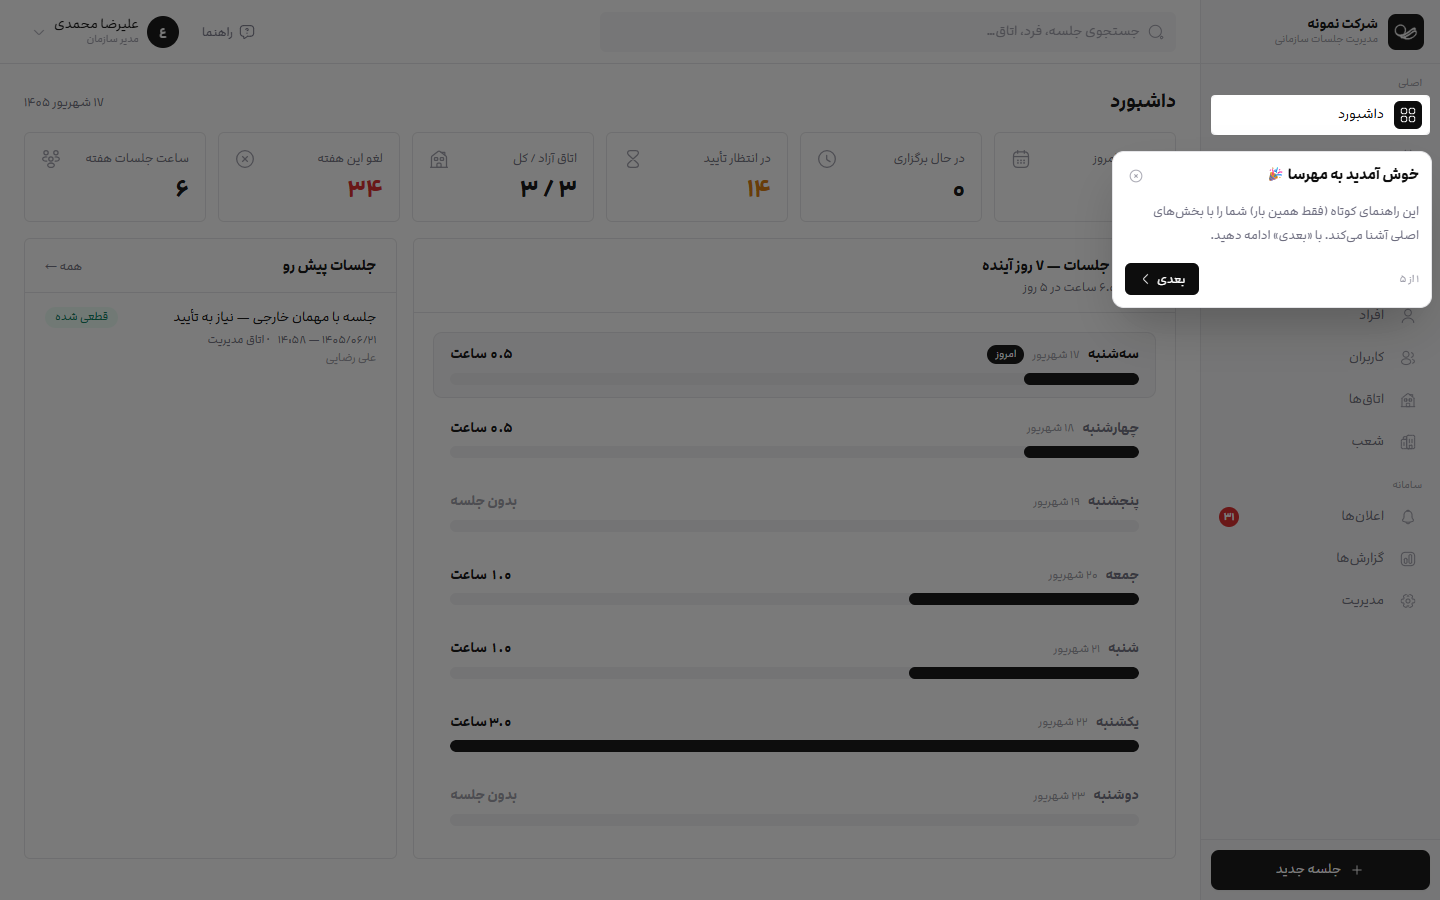
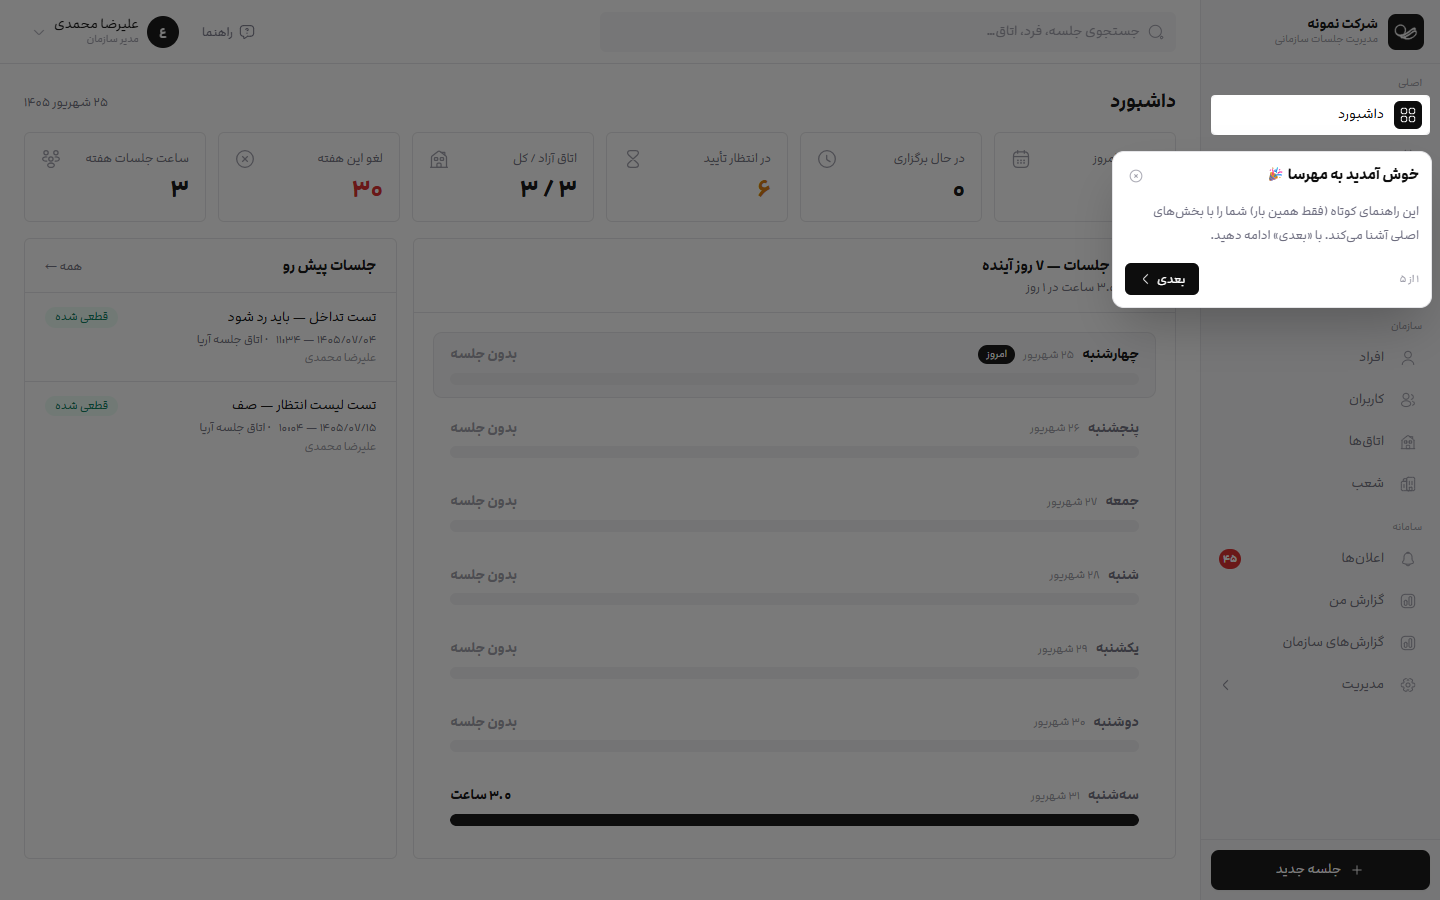
test(integration): lifecycle creators → operator (employees now file requests)
The meeting-request model removed meeting:create from EMPLOYEE; the
lifecycle suite still created/mutated meetings as ali. Swapped the 8
create/mutate calls to operatorCookie — semantics unchanged (guest
approval 403-for-employee check intact). Lifecycle 8/8.

زمان: 2026-09-16 11:04

diff --git a/tests/integration/api.test.ts b/tests/integration/api.test.ts
@@ -175,10 +175,10 @@ describe("meeting lifecycle", () => {
   const branchId = "branch-niavaran";
   const roomId = "room-a";
 
-  it("employee creates internal meeting → auto-confirmed", async () => {
+  it("operator creates internal meeting → auto-confirmed (employees now file requests)", async () => {
     const { status, body } = await api("/api/meetings", {
       method: "POST",
-      cookie: employeeCookie,
+      cookie: operatorCookie,
       json: {
         title: "تست یکپارچه — جلسه داخلی",
         branchId,
@@ -214,7 +214,7 @@ describe("meeting lifecycle", () => {
   it("guest meeting requires approval → operator approves", async () => {
     const created = await api("/api/meetings", {
       method: "POST",
-      cookie: employeeCookie,
+      cookie: operatorCookie,
       json: {
         title: "جلسه با مهمان خارجی — نیاز به تأیید",
         branchId,
@@ -246,7 +246,7 @@ describe("meeting lifecycle", () => {
   it("reschedule changes time with history event", async () => {
     const { status, body } = await api(`/api/meetings/${meetingId}/reschedule`, {
       method: "POST",
-      cookie: employeeCookie,
+      cookie: operatorCookie,
       json: { startAt: tehran(10, 12), endAt: tehran(10, 13), reason: "تست" },
     });
     expect(status).toBe(200);
@@ -260,7 +260,7 @@ describe("meeting lifecycle", () => {
   it("change room checks availability", async () => {
     const { status } = await api(`/api/meetings/${meetingId}/change-room`, {
       method: "POST",
-      cookie: employeeCookie,
+      cookie: operatorCookie,
       json: { roomId: "room-c" },
     });
     expect(status).toBe(200);
@@ -273,7 +273,7 @@ describe("meeting lifecycle", () => {
 
     const added = await api(`/api/meetings/${meetingId}/participants`, {
       method: "POST",
-      cookie: employeeCookie,
+      cookie: operatorCookie,
       json: { userId: amir.id },
     });
     expect(added.status).toBe(201);
@@ -288,7 +288,7 @@ describe("meeting lifecycle", () => {
   it("cancel requires reason and clears reminders", async () => {
     const { status, body } = await api(`/api/meetings/${meetingId}/cancel`, {
       method: "POST",
-      cookie: employeeCookie,
+      cookie: operatorCookie,
       json: { reason: "DUPLICATE_MEETING" },
     });
     expect(status).toBe(200);
@@ -324,7 +324,7 @@ describe("room waitlist", () => {
   it("conflict 409 offers optional waitlist without locking", async () => {
     const occupant = await api("/api/meetings", {
       method: "POST",
-      cookie: employeeCookie,
+      cookie: operatorCookie,
       json: {
         title: "تست لیست انتظار — اشغالکننده",
         branchId,
@@ -384,7 +384,7 @@ describe("room waitlist", () => {
   it("when occupant cancels, first waiter is offered but the slot stays bookable", async () => {
     const cancelled = await api(`/api/meetings/${occupantId}/cancel`, {
       method: "POST",
-      cookie: employeeCookie,
+      cookie: operatorCookie,
       json: { reason: "DUPLICATE_MEETING" },
     });
     expect(cancelled.status).toBe(200);
@@ -404,7 +404,7 @@ describe("room waitlist", () => {
 
     const sniped = await api("/api/meetings", {
       method: "POST",
-      cookie: employeeCookie,
+      cookie: operatorCookie,
       json: {
         title: "تست لیست انتظار — رزرو در مهلت",
         branchId,
